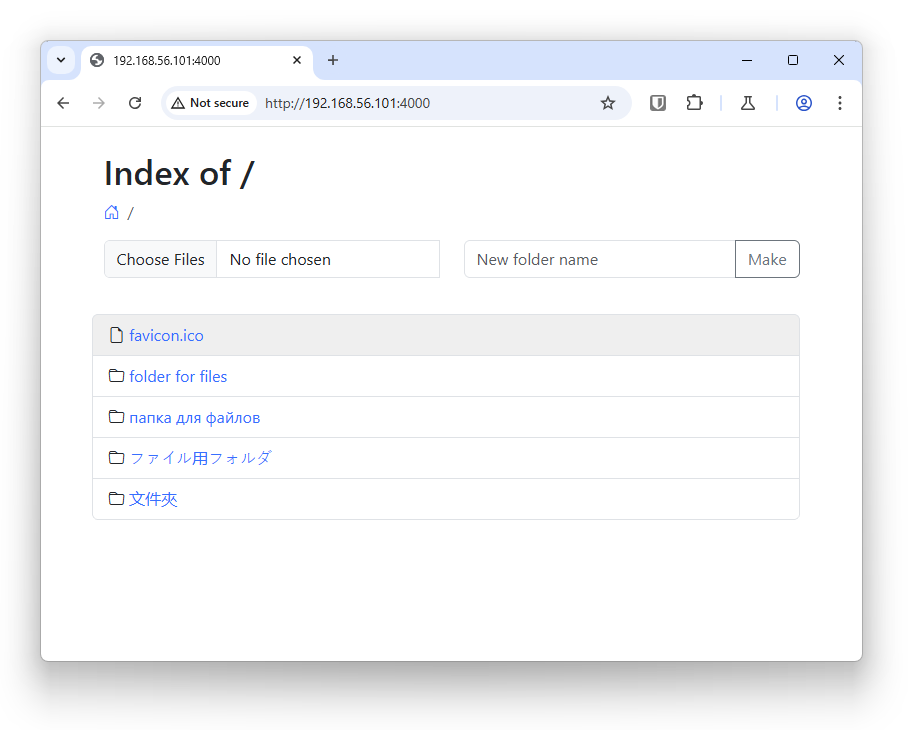
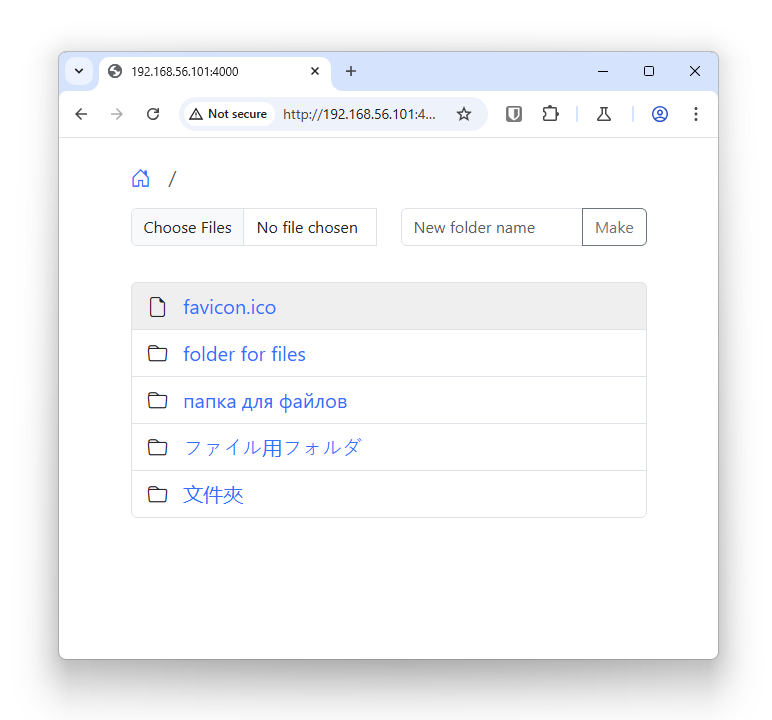
remove H1 title

diff --git a/lib/http-up-core.js b/lib/http-up-core.js
@@ -35,7 +35,7 @@ exports.api_core = function(app, argv){
                 let el = arr_path[a];
 
                 breadcr.push(el);
-                breadcrumb_html += `<li class="breadcrumb-item"><a href="/${breadcr.join('/')}">${el}</a></li>`;
+                breadcrumb_html += `<li class="breadcrumb-item"><a class="nodecor" href="/${breadcr.join('/')}">${el}</a></li>`;
             }
 
             let body = `
@@ -56,6 +56,26 @@ exports.api_core = function(app, argv){
             a.nodecor {
                 text-decoration: none;
             }
+            ul.list-group{
+                padding: 0 12px;
+            }
+
+            li.breadcrumb-item {
+                font-size: 20px;
+
+            }
+            li.breadcrumb-item i{
+
+                margin-right: 10px;
+            }
+
+            li.list-group-item{
+                font-size: 20px;
+            }
+            li.list-group-item i{
+                margin-right: 10px;
+            }
+
             </style>
 
             </head>
@@ -65,7 +85,7 @@ exports.api_core = function(app, argv){
 
                 <div class="row" style_="padding:20px 0;">
 
-                    <h1>Index of ${req_path}</h1>
+                    <!--h1>Index of ${req_path}</h1-->
 
                     <nav aria-label="breadcrumb">
                         <ol class="breadcrumb">
@@ -108,7 +128,7 @@ exports.api_core = function(app, argv){
 
 
                 <div class="row" style="padding:20px 0;">
-                <ul class="list-group">
+                <ul class="list-group" >
 
             `;
 

diff --git a/README.md b/README.md
@@ -12,7 +12,9 @@ Also you can download any files inside current folder, just click on them
 
 
 
-![alt text](https://github.com/western/http-up/blob/dev/doc/screen.png?raw=true&17)
+![alt text](https://github.com/western/http-up/blob/dev/doc/screen.png?raw=true&18)
+
+![alt text](https://github.com/western/http-up/blob/dev/doc/screen_mobile.png?raw=true&18)
 
 ## Notes
 
